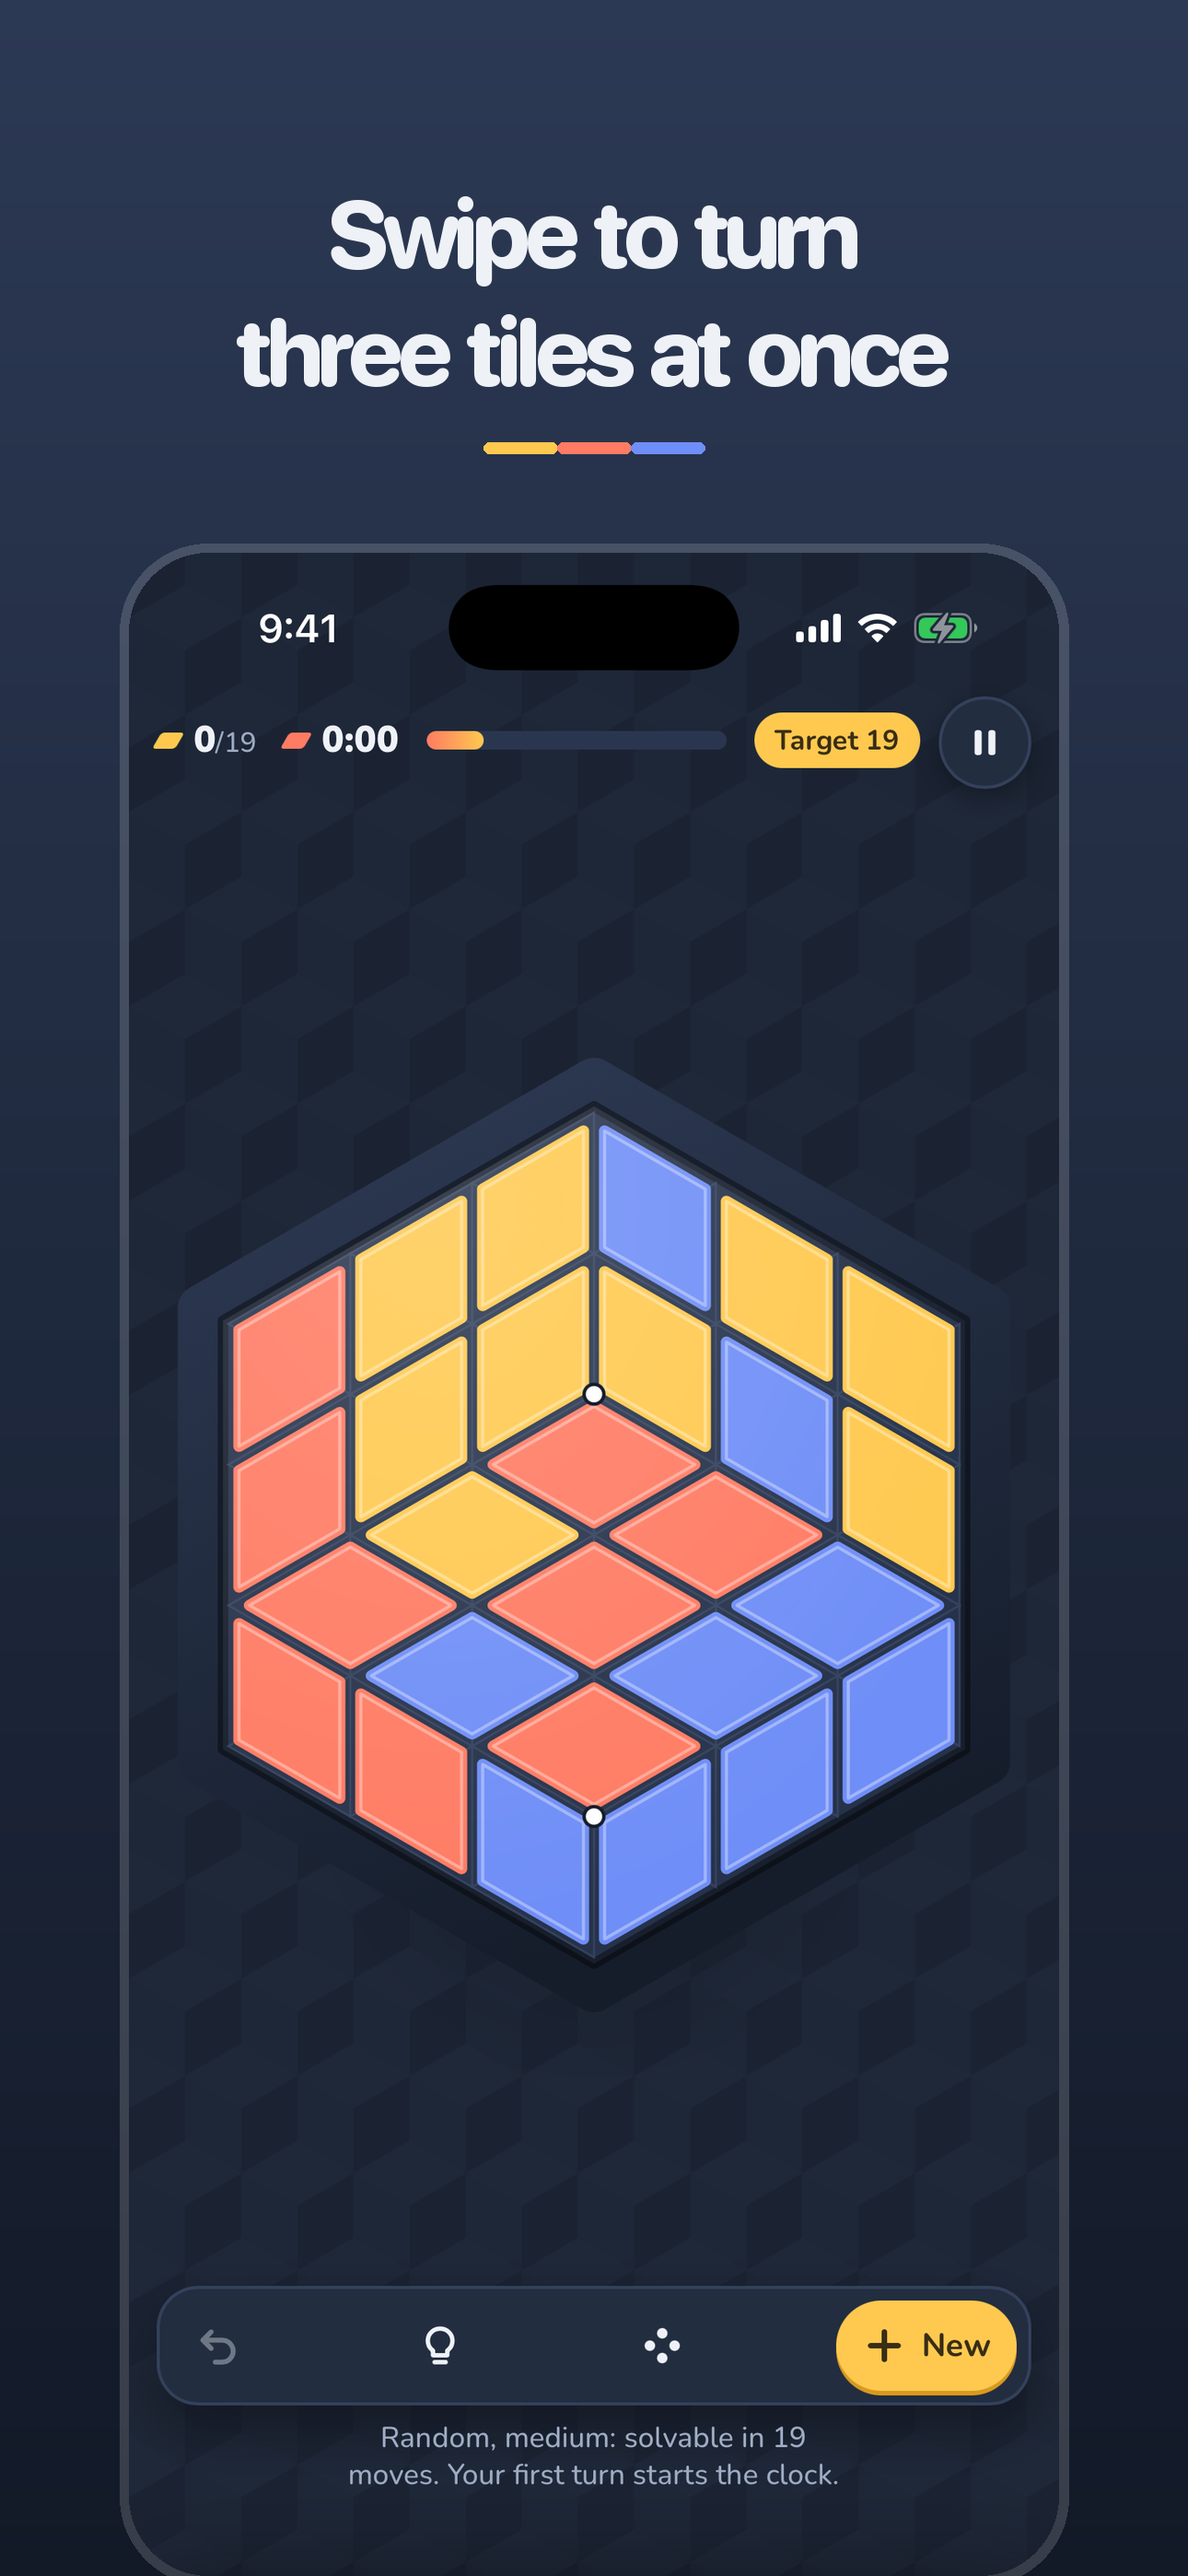
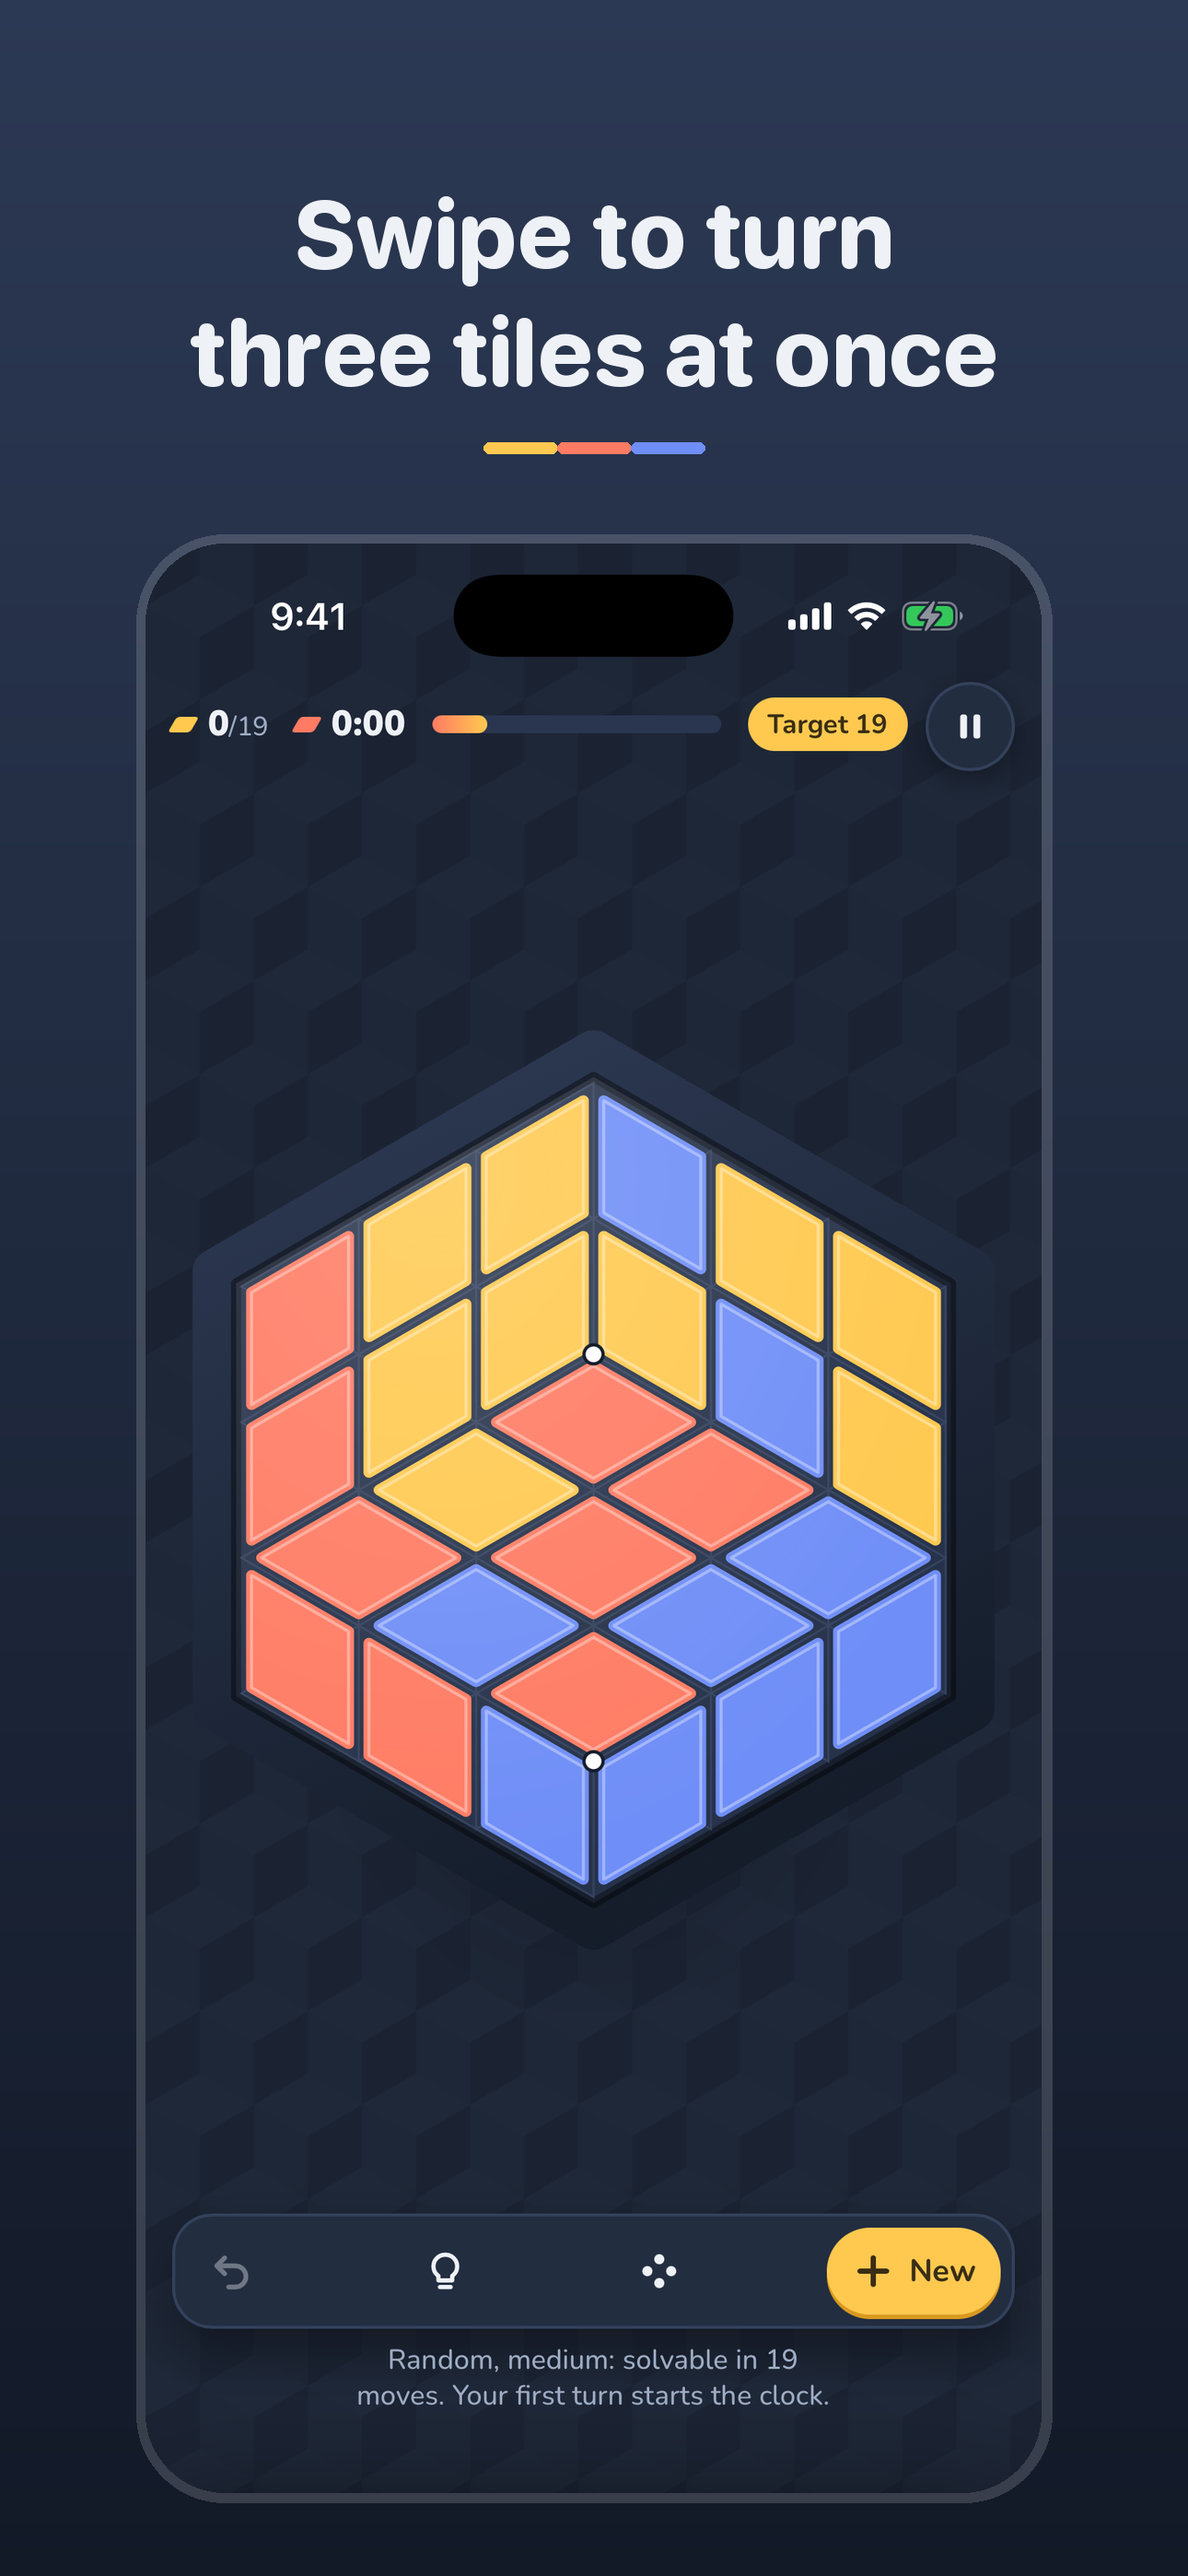
App Store screenshots at 1206x2622 (6.3") plus fixed title weight and full-height phone

diff --git a/app/store/make_shots.py b/app/store/make_shots.py
@@ -1,6 +1,8 @@
-"""Imágenes para la App Store (iPhone 6.9": 1290x2796) a partir de las capturas del simulador (raw/)."""
+"""Imágenes para la App Store a partir de las capturas del simulador (raw/).
+Tamaños: iPhone 6.3" (1206x2622, el que pide App Store Connect primero) y 6.9" (1290x2796)."""
 import os
 from PIL import Image, ImageDraw, ImageFont
+SIZES = {'appstore-6.3': (1206, 2622), 'appstore-6.9': (1290, 2796)}
 W, H = 1290, 2796
 FONT = '/System/Library/Fonts/SFNSRounded.ttf'
 SHOTS = {
@@ -22,7 +24,7 @@ SHOTS = {
 
 def font(size, weight):
     f = ImageFont.truetype(FONT, size)
-    try: f.set_variation_by_axes([weight])
+    try: f.set_variation_by_axes([400, weight])  # ejes: GRAD (grosor sin ensanchar) y Weight
     except Exception: pass
     return f
 
@@ -36,36 +38,43 @@ def background():
     return bg
 
 def make(raw, caption, out):
+    k = W / 1290
     img = background()
     d = ImageDraw.Draw(img)
-    f = font(104, 800)
+    f = font(round(104 * k), 800)
     lines = caption.split('\n')
-    y = 190
+    y = round(190 * k)
+    track = 0.005 * f.size  # apenas un poco de aire entre letras
     for ln in lines:
-        w = d.textlength(ln, font=f)
-        d.text(((W - w) / 2, y), ln, font=f, fill=(0xEE, 0xF1, 0xF6))
-        y += 128
+        w = sum(d.textlength(ch, font=f) for ch in ln) + track * (len(ln) - 1)
+        x = (W - w) / 2
+        for ch in ln:
+            d.text((x, y), ch, font=f, fill=(0xEE, 0xF1, 0xF6))
+            x += d.textlength(ch, font=f) + track
+        y += round(128 * k)
     # franja de tres colores bajo el título
-    bw, by = 240, y + 34
+    bw, by = 240 * k, y + 34 * k
     for i, c in enumerate([(0xFF, 0xC9, 0x4F), (0xFF, 0x7B, 0x63), (0x6F, 0x8E, 0xF7)]):
-        d.rounded_rectangle([W / 2 - bw / 2 + i * bw / 3, by, W / 2 - bw / 2 + (i + 1) * bw / 3, by + 12], radius=6, fill=c)
+        d.rounded_rectangle([W / 2 - bw / 2 + i * bw / 3, by, W / 2 - bw / 2 + (i + 1) * bw / 3, by + 12 * k], radius=6 * k, fill=c)
     # captura con esquinas redondeadas y sombra
     shot = Image.open(raw).convert('RGB')
-    sw = 1010
-    sh = round(shot.height * sw / shot.width)
+    # la captura entera, sin cortarse abajo
+    top = round(by + 110 * k)
+    sh = H - top - round(90 * k)
+    sw = round(shot.width * sh / shot.height)
     shot = shot.resize((sw, sh), Image.LANCZOS)
-    top = H - sh - 150 if H - sh - 150 > by + 120 else by + 120
     mask = Image.new('L', (sw, sh), 0)
-    ImageDraw.Draw(mask).rounded_rectangle([0, 0, sw - 1, sh - 1], radius=86, fill=255)
+    ImageDraw.Draw(mask).rounded_rectangle([0, 0, sw - 1, sh - 1], radius=round(86 * k), fill=255)
     shadow = Image.new('RGBA', (W, H), (0, 0, 0, 0))
-    ImageDraw.Draw(shadow).rounded_rectangle([(W - sw) / 2 - 10, top - 10, (W + sw) / 2 + 10, top + sh + 10], radius=96, fill=(255, 255, 255, 40))
+    ImageDraw.Draw(shadow).rounded_rectangle([(W - sw) / 2 - 10 * k, top - 10 * k, (W + sw) / 2 + 10 * k, top + sh + 10 * k], radius=96 * k, fill=(255, 255, 255, 40))
     img.paste(shadow, (0, 0), shadow)
     img.paste(shot, ((W - sw) // 2, top), mask)
     img.save(out)
 
 here = os.path.dirname(os.path.abspath(__file__))
-for lang, items in SHOTS.items():
-    os.makedirs(os.path.join(here, 'appstore-6.9', lang), exist_ok=True)
-    for i, (name, cap) in enumerate(items, 1):
-        make(os.path.join(here, 'raw', name + '.png'), cap, os.path.join(here, 'appstore-6.9', lang, f'{i}-{name}.png'))
+for folder, (W, H) in SIZES.items():
+    for lang, items in SHOTS.items():
+        os.makedirs(os.path.join(here, folder, lang), exist_ok=True)
+        for i, (name, cap) in enumerate(items, 1):
+            make(os.path.join(here, 'raw', name + '.png'), cap, os.path.join(here, folder, lang, f'{i}-{name}.png'))
 print('ok')

diff --git a/app/APP_STORE.md b/app/APP_STORE.md
@@ -81,8 +81,9 @@ La respuesta es correcta porque el juego no tiene cuentas, analítica ni anuncio
 ## Paso 6. La versión 1.0 (iOS App → 1.0 Prepare for Submission)
 
 1. **Previews and Screenshots**
-   - En **iPhone 6.9" Display**, arrastra las 5 imágenes de `app/store/appstore-6.9/en/` en orden (1 a 5).
-   - Apple usa esas mismas imágenes para los demás tamaños de iPhone.
+   - En la pestaña **iPhone with Dynamic Island (medium display)** (6.1"/6.3", 1206 × 2622), arrastra las 5 imágenes de `app/store/appstore-6.3/en/` en orden (1 a 5).
+   - Si también aparece una pestaña de **6.9"**, usa las de `app/store/appstore-6.9/en/`.
+   - Las pestañas de iPad y Apple Watch no aplican: la app es solo para iPhone.
 2. **Promotional Text, Description y Keywords:** cópialos del final de esta guía.
 3. **URLs:**
    - **Support URL:** `https://blubergames.com/support/`
@@ -100,7 +101,7 @@ La respuesta es correcta porque el juego no tiene cuentas, analítica ni anuncio
 
 1. Arriba a la derecha, en el selector de idioma (dice **English (U.S.)**), elige **Add Language → Spanish (Mexico)**. Si quieres, también **Spanish (Spain)**.
 2. Llena el nombre, el subtítulo, el texto promocional, la descripción y las palabras clave en español (están abajo).
-3. En las capturas, sube las de `app/store/appstore-6.9/es/`.
+3. En las capturas, sube las de `app/store/appstore-6.3/es/` (y `appstore-6.9/es/` si te pide 6.9").
 
 ## Paso 8. Mandar a revisión
 
